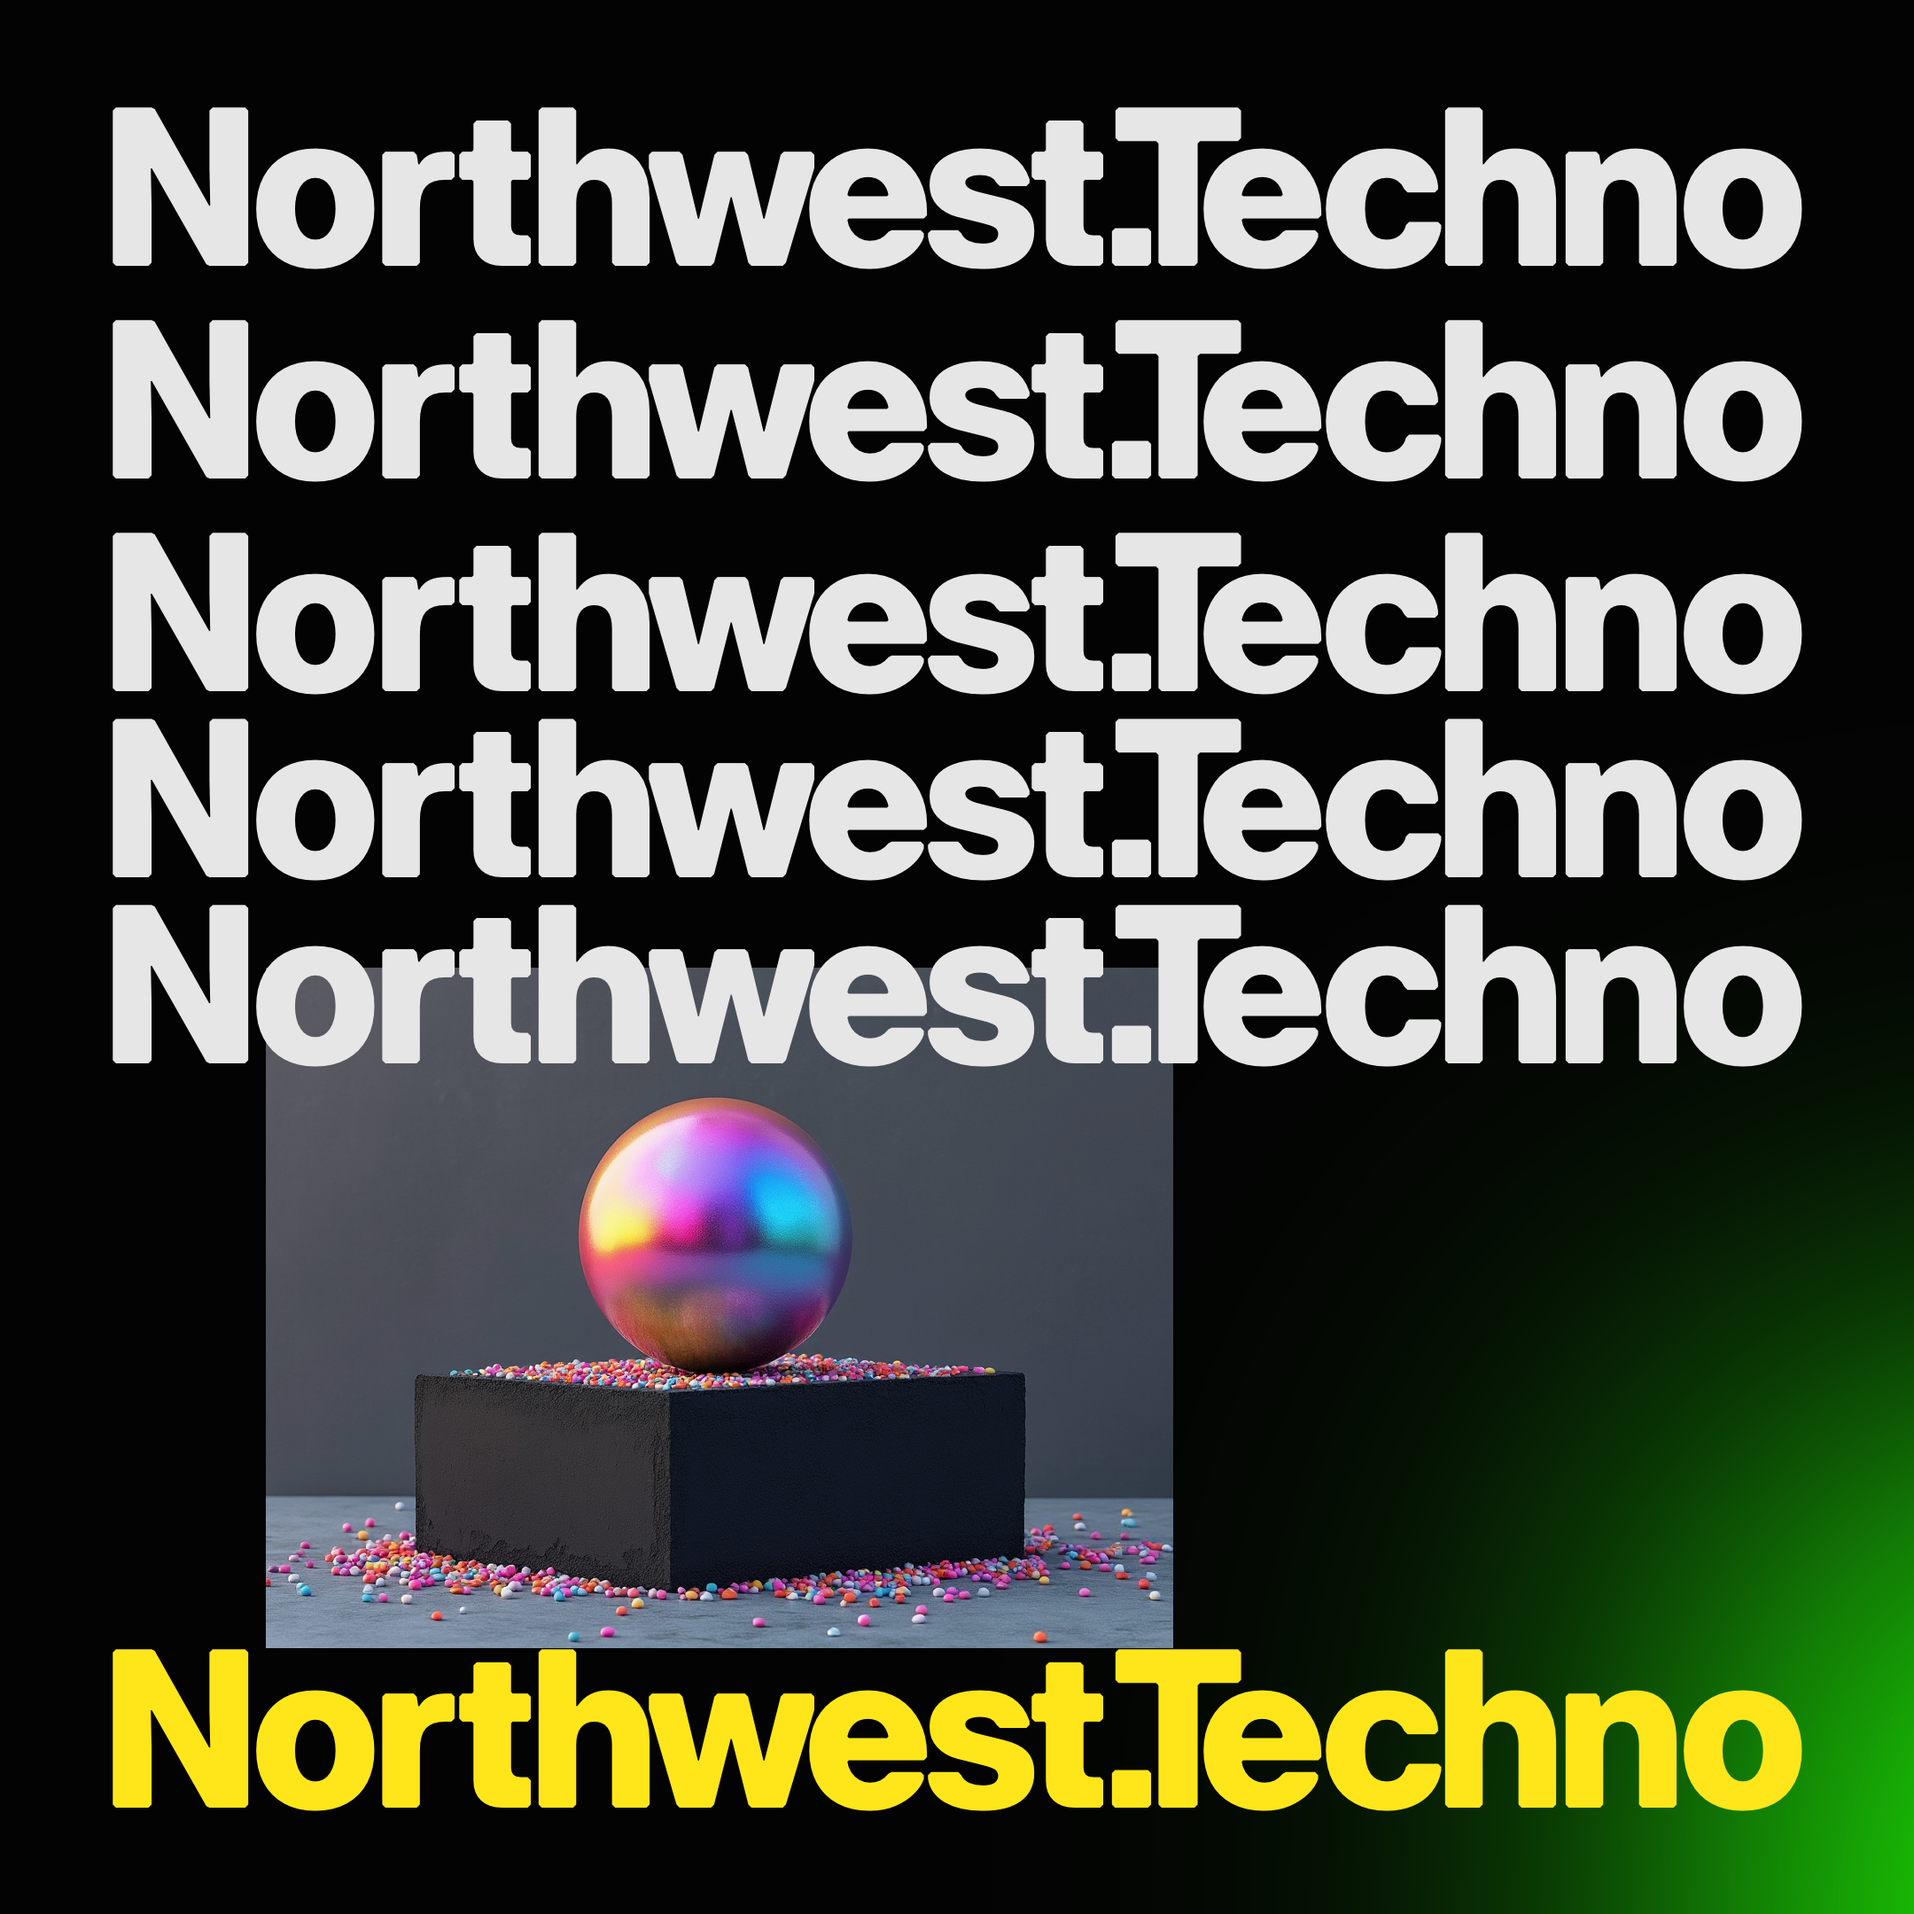
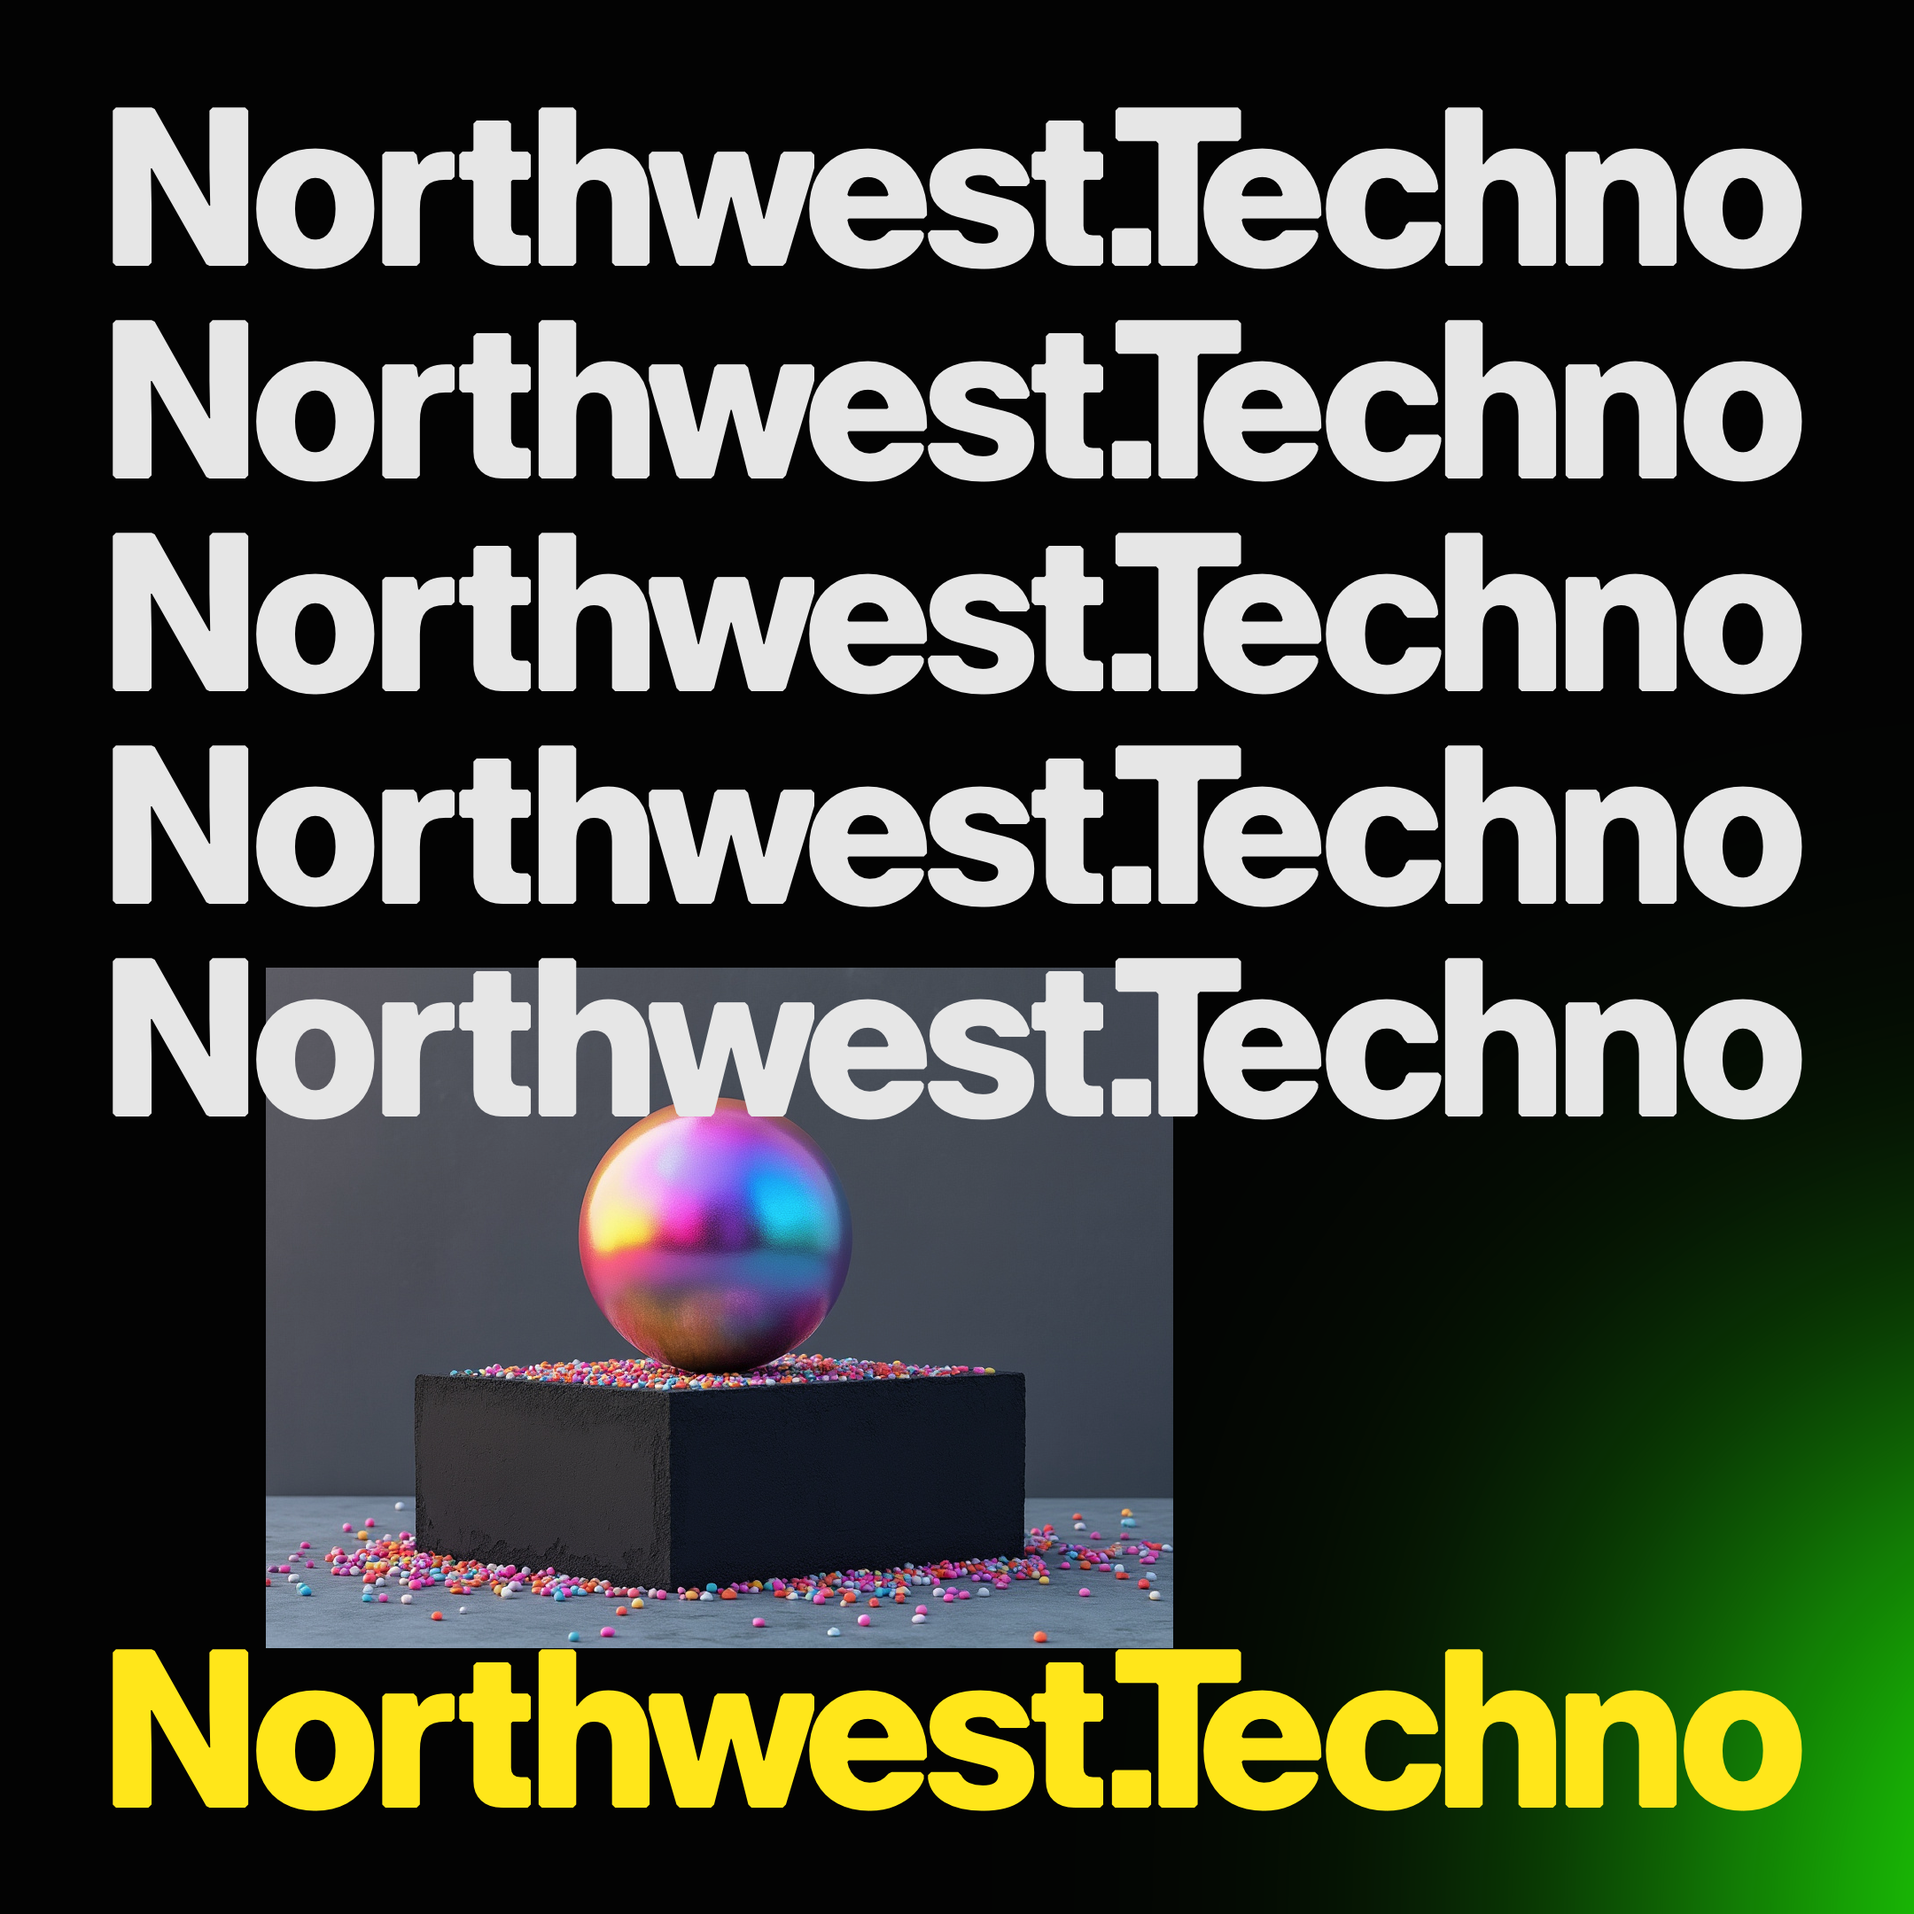
update pre-alpha images

Changed region(s): [[0.031, 0.3722, 0.9616, 0.5894]]

diff --git a/documentation/images/pre-alpha/wip-010.py b/documentation/images/pre-alpha/wip-010.py
@@ -120,8 +120,8 @@ db.tracking(-2)
 db.text(MAIN_TEXT_LOOP, (M+(U*(0)), M+(U*(29))), align="left")
 db.text(MAIN_TEXT_LOOP, (M+(U*(0)), M+(U*(25))), align="left")
 db.text(MAIN_TEXT_LOOP, (M+(U*(0)), M+(U*(21))), align="left")
-db.text(MAIN_TEXT_LOOP, (M+(U*(0)), M+(U*(17.5))), align="left")
-db.text(MAIN_TEXT_LOOP, (M+(U*(0)), M+(U*(14))), align="left")
+db.text(MAIN_TEXT_LOOP, (M+(U*(0)), M+(U*(17))), align="left")
+db.text(MAIN_TEXT_LOOP, (M+(U*(0)), M+(U*(13))), align="left")
 db.fill(1.0,0.9,0.1)
 db.text(MAIN_TEXT_LOOP, (M+(U*(0)), M+(U*(0))), align="left")
 
